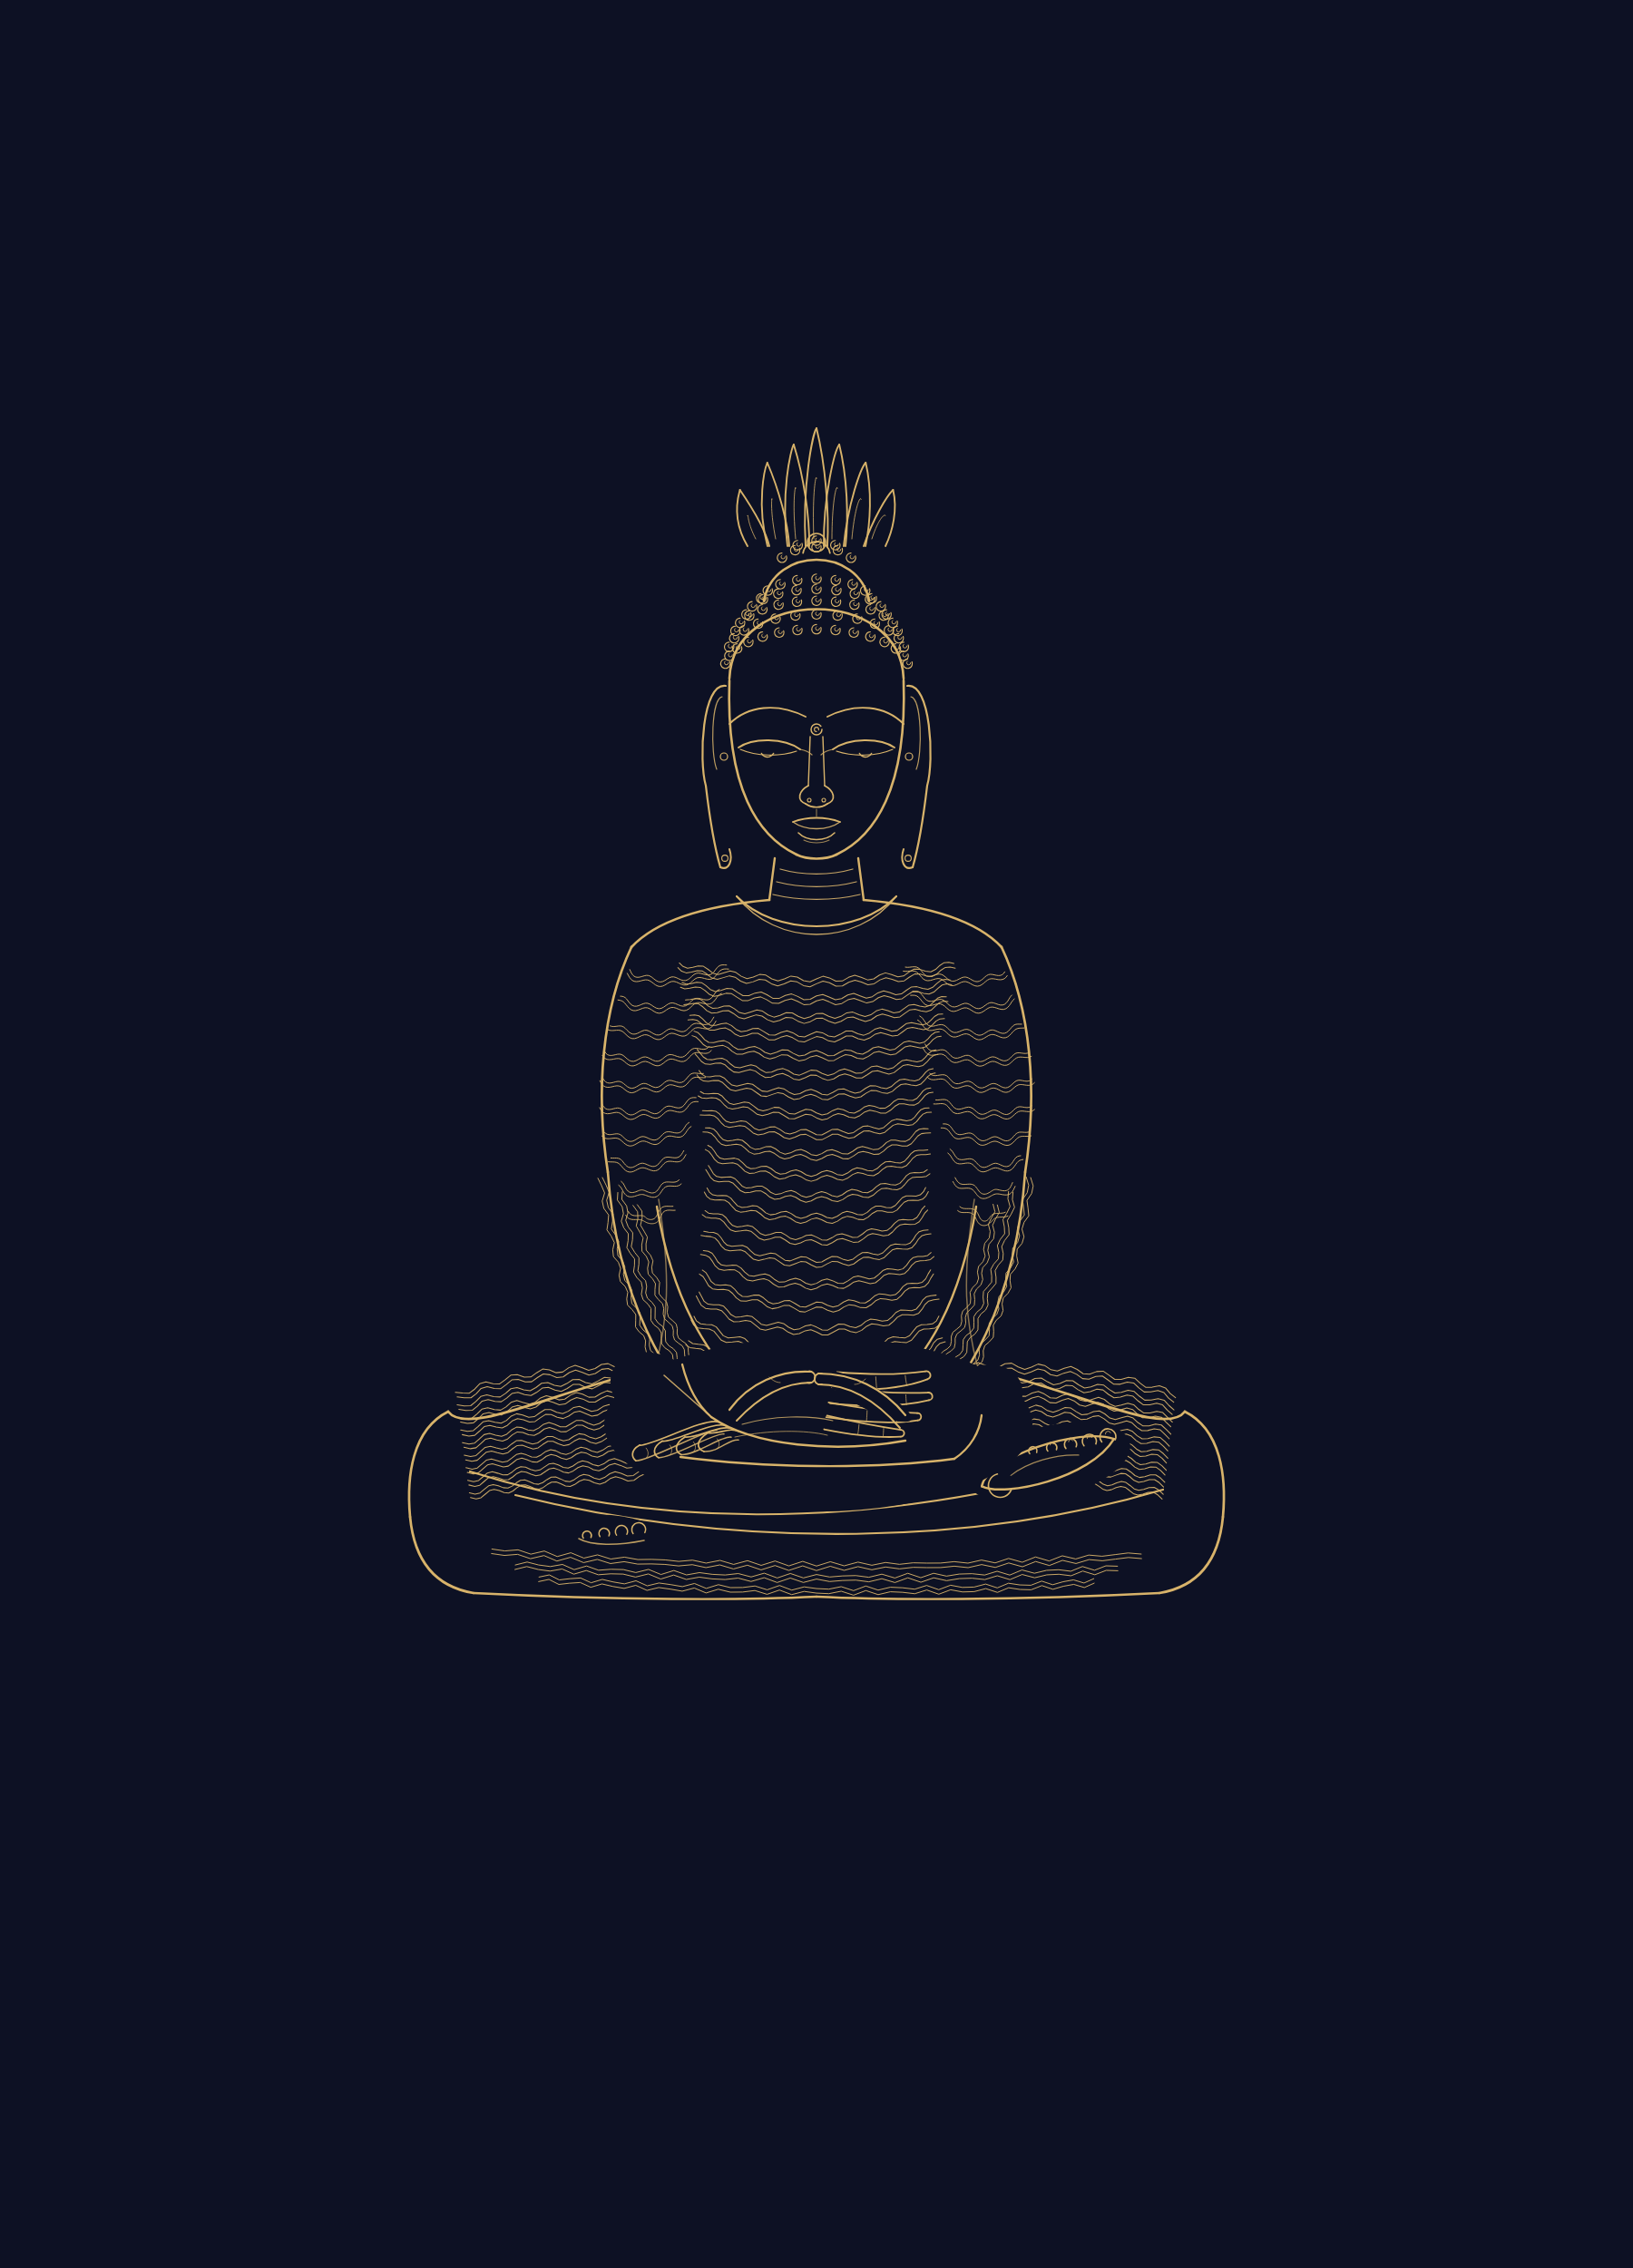
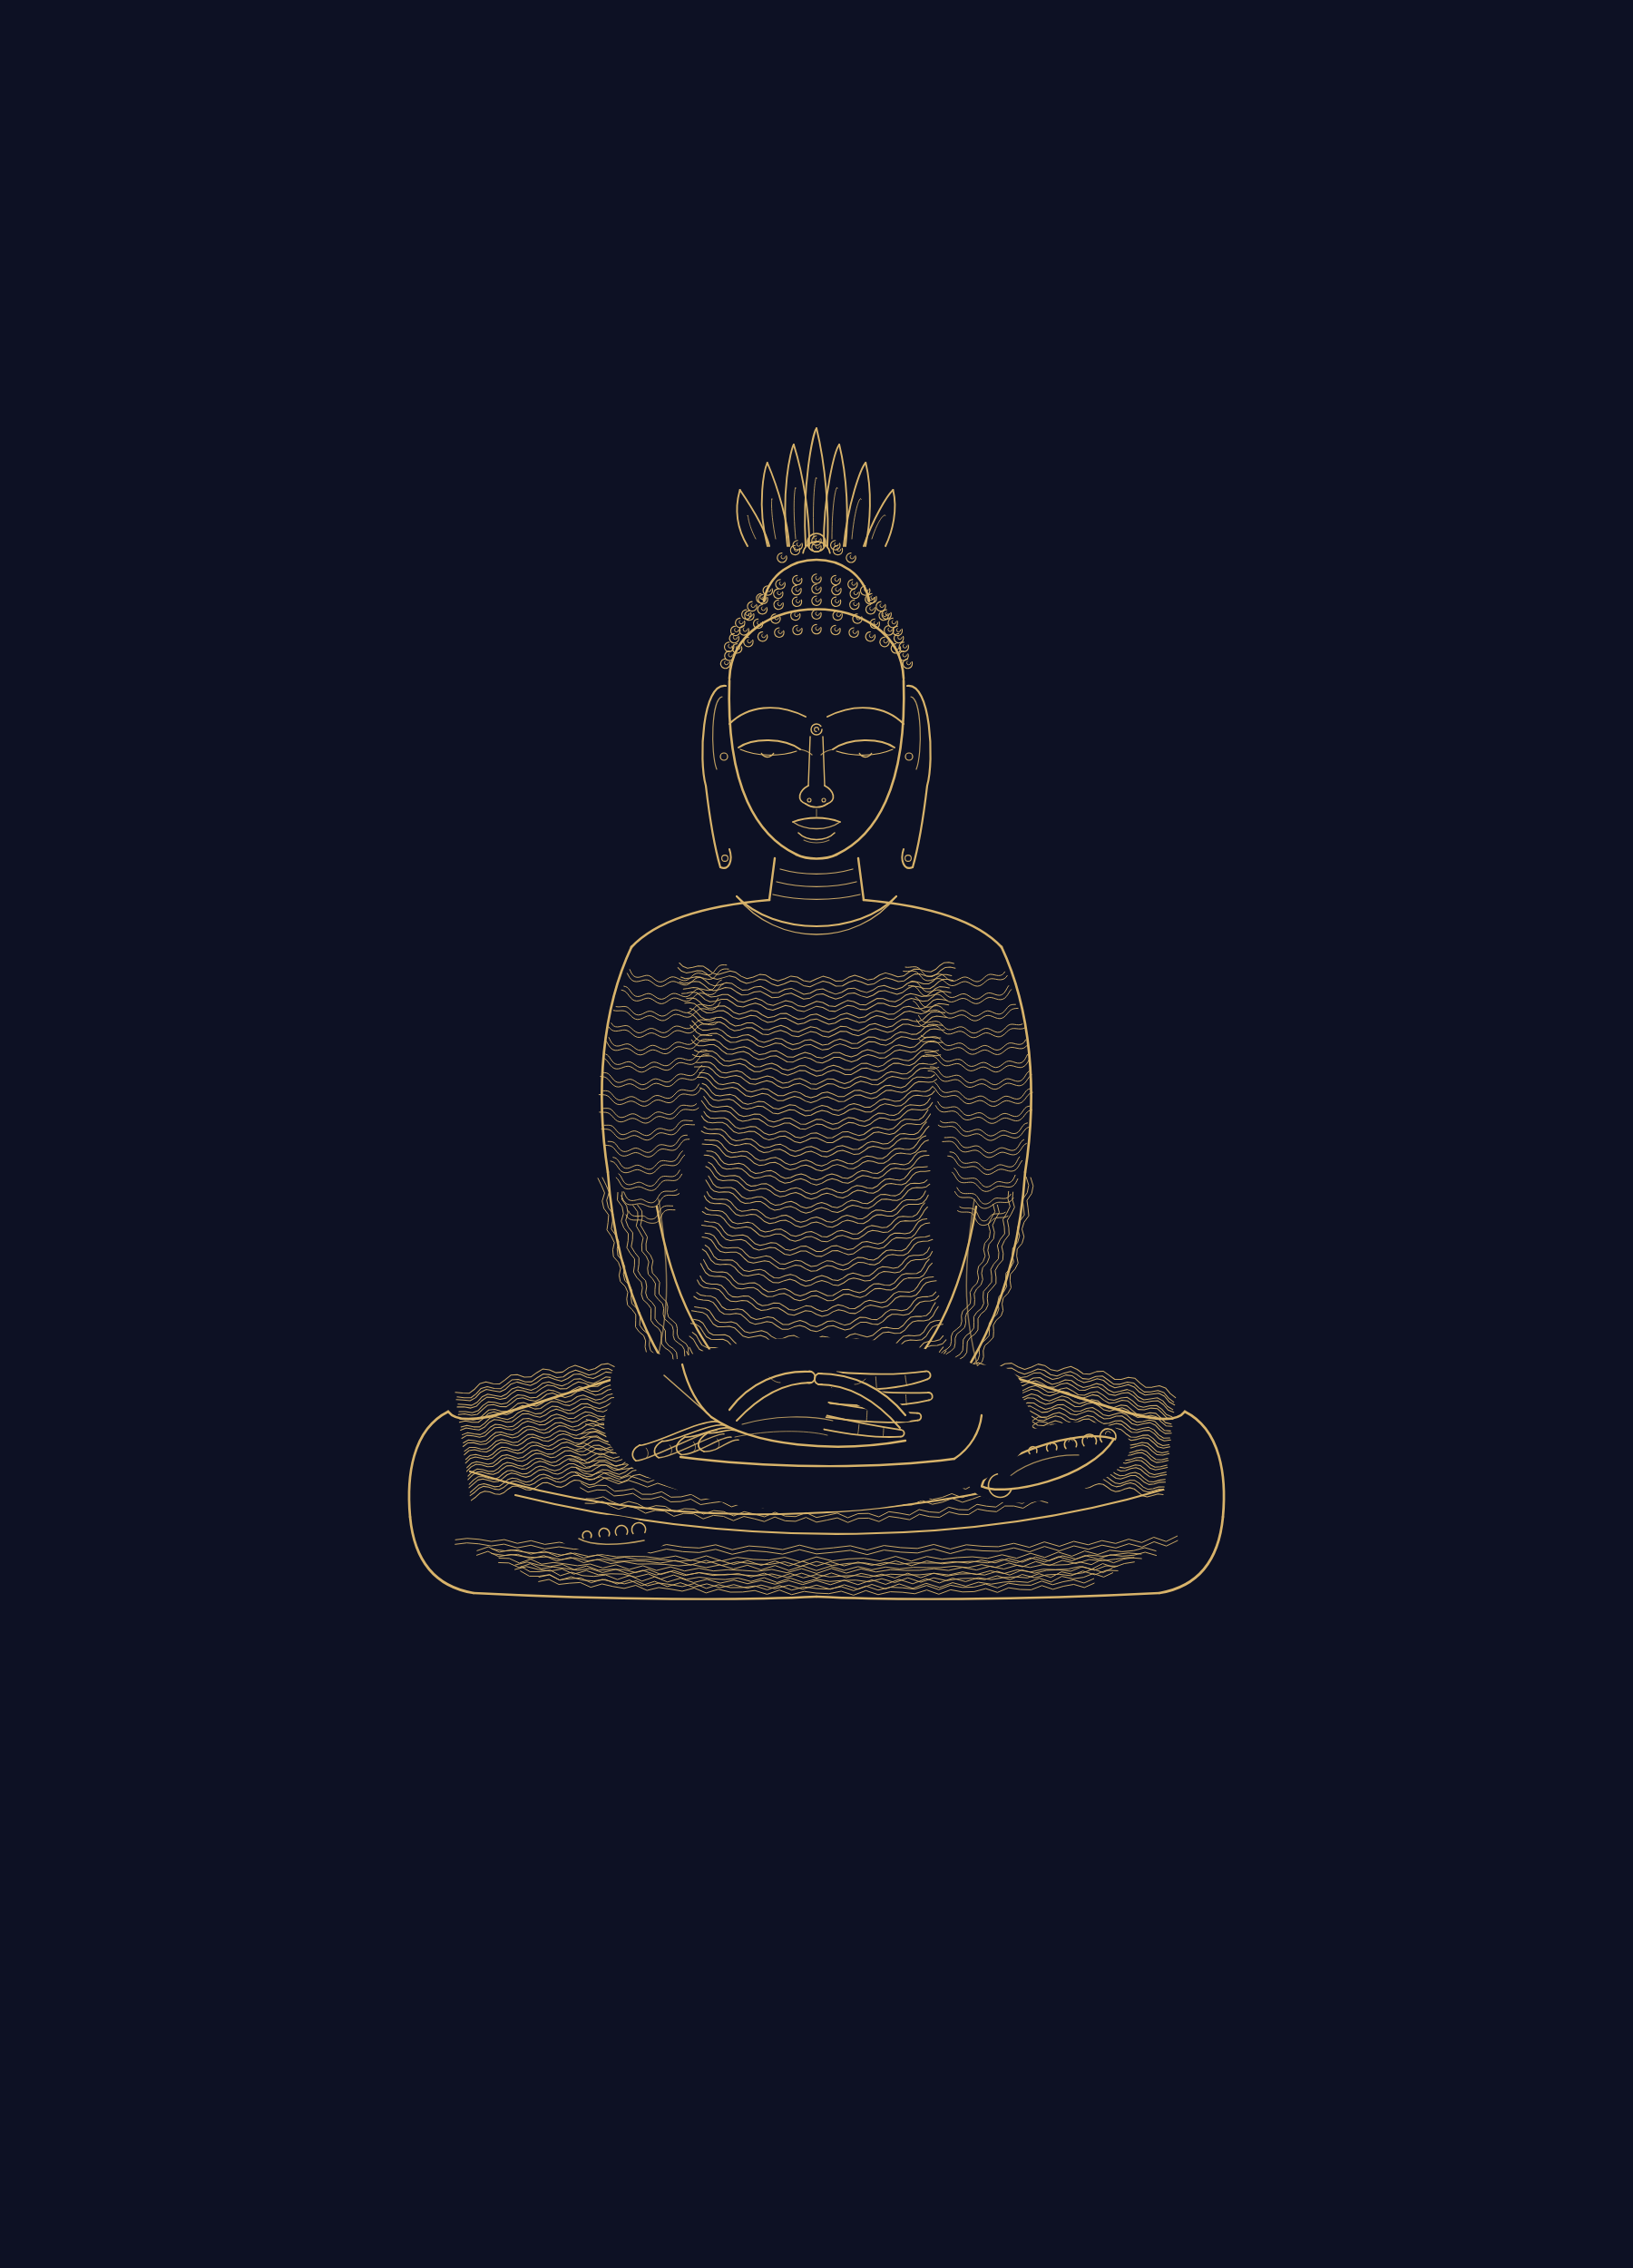
精美程甲・次批：康提三債全銷 13.30% 過線（波衣密至標）
- ①中幅橫帶四重異紋（匠：連珠・卭字斷紋・蓮瓣・繩紋）②波衣密至標（親筆：
  胸帶距19+7t→13+4t・臂帶10→15・股帶9→14・盤心帶七・盤底新月四）
  ③背景樹花近密遠疏二層（匠）
- 密度 10.68→13.30%；併圖五項全✓；審者初判獨尊校剪影，覆核撤回（深底金線本制）

Changed region(s): [[0.3733, 0.4368, 0.6222, 0.5928], [0.28, 0.5928, 0.6533, 0.7176], [0.6222, 0.5928, 0.7156, 0.6864]]

diff --git a/匠筆-主坊/風格館/尼瓦爾-康提式-尊身層.js b/匠筆-主坊/風格館/尼瓦爾-康提式-尊身層.js
@@ -9,6 +9,12 @@
 // Codex 碼審指謬，二源交叉之說撤回）；Kandyan 畫派專屬印相圖證待補。〕。
 // 右掌覆左掌上、掌皆仰、二拇梢相拄於中軸。
 // 格網：頂y=600 指=17 中x=900 → 白毫804 頦940 心窩1212 臍1416 盤線1688 座面1756。
+// 欠精三事賬（展覽館精美程・甲）：
+//   ①中幅上下橫帶各二重帶內異紋（匠單）——2026-07-13 銷（四帶四紋：連珠・卭字斷紋・蓮瓣・繩紋（從框層碼注之名））；
+//   ②波衣線密度至標——2026-07-13 銷（胸帶距19+7t→13+4t・臂帶10→15・股帶9→14・
+//     盤心帶七・盤底新月四——密度 10.68→13.30% ✓過線）；
+//   ③背景樹花層次（匠單）——2026-07-13 銷（近密遠疏二層＋樹皮紋）。
+//   併圖五項（vs Cleveland 1970.156）：開臉✓手✓軀✓密度✓辨識✓（波衣康提之判自明）。
 // 【自校實錄】一稿七疵：手如梳齒雙圈不成印、前臂遭蔽法削斷、膝丘塌平、波帶斷檔、
 // 足位失形、腋線過鬼、焰珠浮——二稿改指法臂袖膝足。二稿再驗：說法印雙掌張指如傘、
 // 前臂交叉成X仍不成相——三稿依畫派改禪定印於膝上，前臂自肘內收成A勢，胸腹波帶全貫。
@@ -209,12 +215,12 @@ export async function 尊(x, 助) {
       const sag = 24 + 34 * t;
       波帶(樣貝([cx - hw, yy], [cx - hw * 0.5, yy + sag], [cx + hw * 0.5, yy + sag], [cx + hw, yy]),
         { 幅: 3.2, 波長: 34, 雙距: 5.4, 相: k * 1.05, w: 1.02 });
-      yy += 19 + 7 * t; k++;
+      yy += 13 + 4 * t; k++;   // 精美程：帶距收密（19+7t→13+4t）
     }
     // 兩臂（肩→肘，橫過臂身；密於肩、緩於肘）
     for (const s of [-1, 1]) {
-      for (let j = 0; j < 10; j++) {
-        const t = j / 9, ay = 頸底 + 74 + t * 264;
+      for (let j = 0; j < 15; j++) {   // 精美程：臂帶10→15
+        const t = j / 14, ay = 頸底 + 74 + t * 264;
         const xi = cx + s * (98 + 60 * t), xo = cx + s * (208 + 30 * Math.sin(t * Math.PI));
         波帶(樣貝([xi, ay], [xi + s * 30, ay + 16], [xo - s * 26, ay + 24], [xo, ay + 6]),
           { 幅: 2.8, 波長: 28, 雙距: 5.0, 相: j * 1.3 + (s + 1), w: 1.0 });
@@ -222,13 +228,27 @@ export async function 尊(x, 助) {
     }
     // 兩股（自盤心沿股軸向膝，帶帶追膝丘之向）
     for (const s of [-1, 1]) {
-      for (let j = 0; j < 9; j++) {
-        const t = j / 8;
+      for (let j = 0; j < 14; j++) {   // 精美程：股帶9→14
+        const t = j / 13;
         const p0 = [cx + s * (54 + 30 * t), Y.臍 + 96 + t * 96];
         const p3 = [cx + s * (膝半 - 46 - 14 * t), Y.盤線 - 148 + t * 108];
         波帶(樣貝(p0, [cx + s * (170 + 80 * t), Y.臍 + 92 + t * 132], [cx + s * (膝半 - 150), Y.盤線 - 190 + t * 128], p3),
           { 幅: 3.4, 波長: 34, 雙距: 5.4, 相: j * 0.9 + (s > 0 ? 0.6 : 0), w: 1.05 });
       }
+    }
+    // 盤心帶七道（精美程：雙股之間膝手之下——大衣覆盤滿鋪，洞不留白）
+    for (let j = 0; j < 7; j++) { const t = j / 6;
+      const py = Y.臍 + 150 + t * (Y.盤線 - Y.臍 - 186);
+      const hw = 膝半 - 170 - 36 * Math.abs(t - 0.5);
+      波帶(樣貝([cx - hw, py], [cx - hw * 0.45, py + 20 + 8 * t], [cx + hw * 0.45, py + 20 + 8 * t], [cx + hw, py]),
+        { 幅: 3.0, 波長: 32, 雙距: 5.2, w: 1.0, 相: j * 1.15 + 0.4 });
+    }
+    // 盤底新月四帶（精美程：盤線至座面之間滿鋪）
+    for (let j = 0; j < 4; j++) { const t = j / 3;
+      const py = Y.盤線 + 10 + t * (Y.座面 - Y.盤線 - 34);
+      const hw = (膝半 - 44) * (1 - t * 0.18);
+      波帶(樣貝([cx - hw, py], [cx - hw * 0.5, py + 14 + 6 * t], [cx + hw * 0.5, py + 14 + 6 * t], [cx + hw, py]),
+        { 幅: 2.8, 波長: 30, 雙距: 5.0, w: 1.0, 相: j * 1.35 + 0.7 });
     }
     // 前臂袖波（肘→腕沿臂各二帶）
     for (const s of [-1, 1]) {